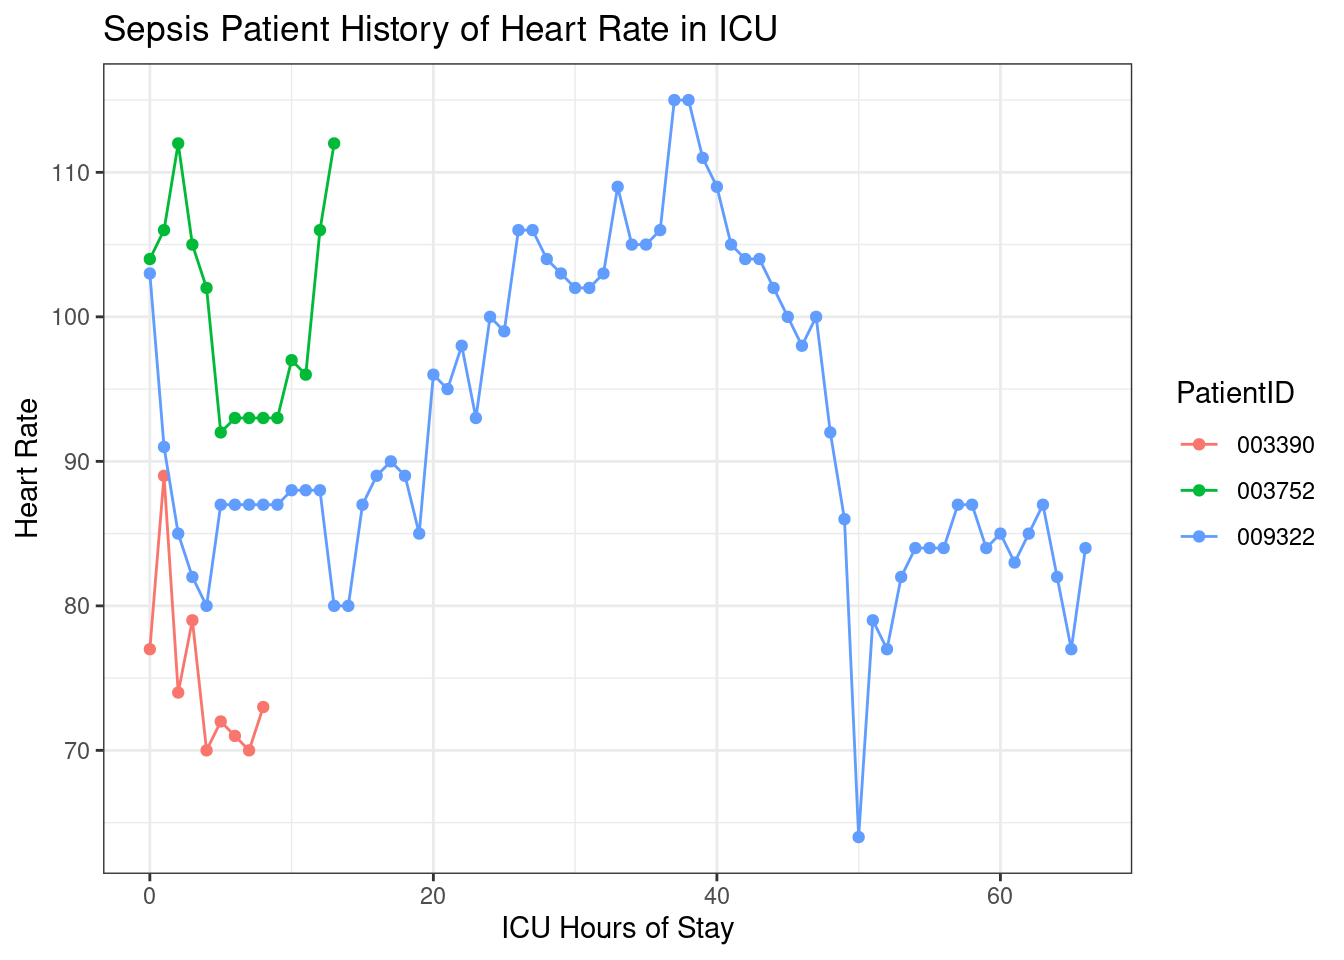
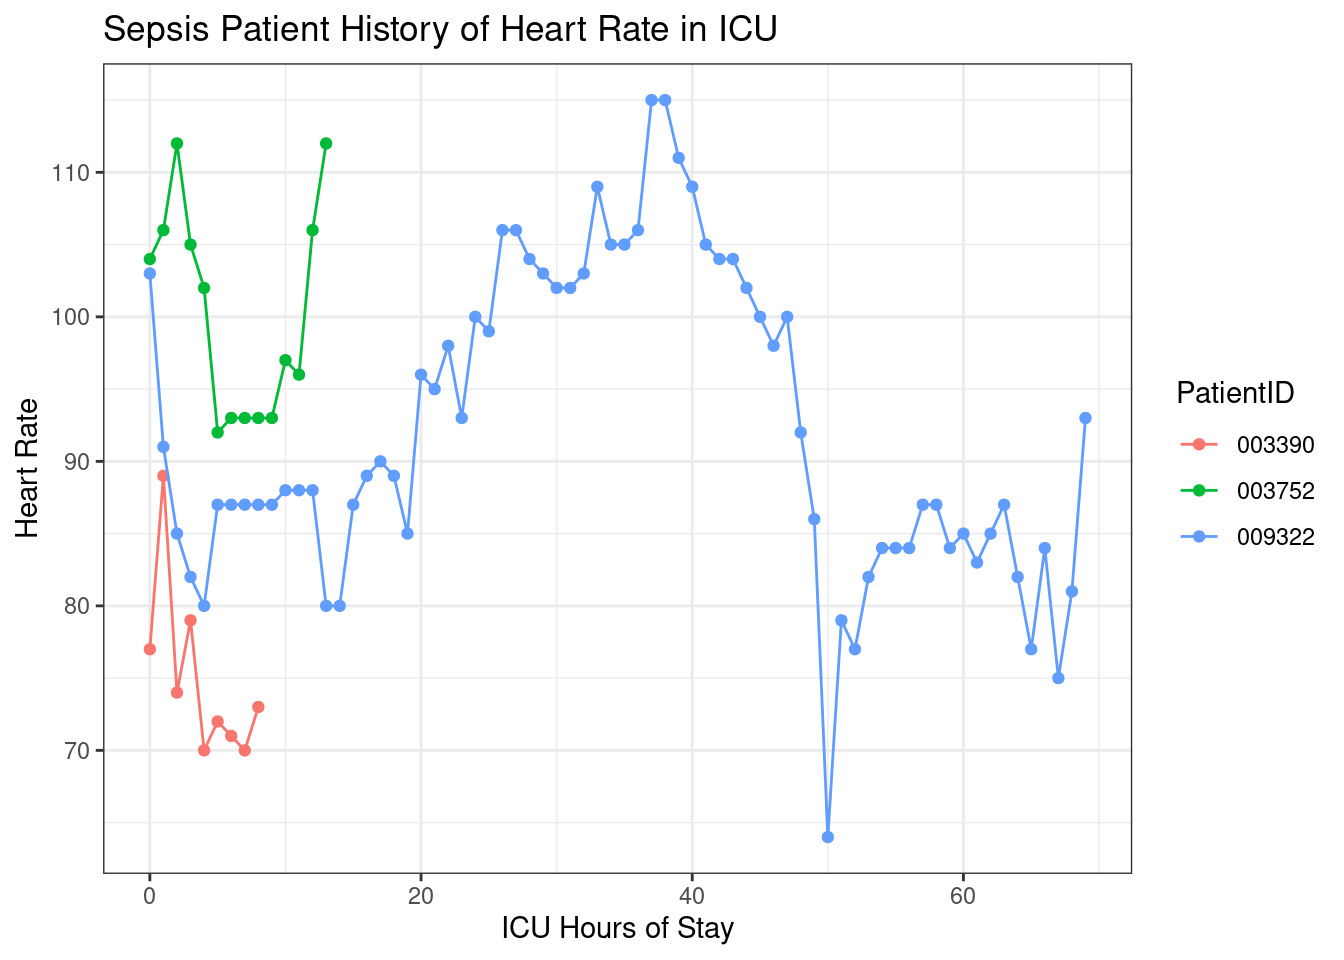
Updated report

diff --git a/A7.html b/A7.html
@@ -63,7 +63,7 @@ ul.task-list li input[type="checkbox"] {
 
 </header>
 
-<p>Report Last run 2023-04-11 18:13:20</p>
+<p>Report Last run 2023-04-11 19:10:54</p>
 <div class="cell">
 
 </div>
@@ -72,7 +72,7 @@ ul.task-list li input[type="checkbox"] {
 </div>
 <section id="task-4-make-an-icu-status-report" class="level1">
 <h1>Task 4: Make an ICU status report</h1>
-<p>This report was generated on 2023-04-11 18:13:22.</p>
+<p>This report was generated on 2023-04-11 19:10:57.</p>
 <div class="cell">
 <div class="cell-output-display">
 
@@ -104,8 +104,8 @@ ul.task-list li input[type="checkbox"] {
   </tr>
   <tr>
    <td style="text-align:left;"> 009322 </td>
-   <td style="text-align:right;"> 66 </td>
-   <td style="text-align:right;"> 84 </td>
+   <td style="text-align:right;"> 69 </td>
+   <td style="text-align:right;"> 93 </td>
    <td style="text-align:right;"> NA </td>
    <td style="text-align:right;"> 20 </td>
   </tr>
